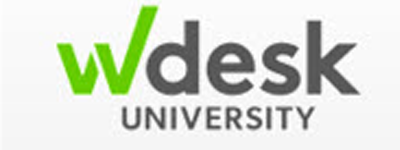
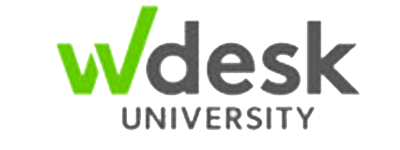
Cleaned up HTML and CSS. Modified image background.

diff --git a/index.html b/index.html
@@ -15,41 +15,41 @@
           <div class="col-6"><img class="responsive title-logo" src="images/WdeskUniversity.png" alt="Wdesk University logo" width="250px"></div>
           <div class="col-6 text-right"><p>Log Out | My Profile | Shopping Cart</p></div>
         </div>
-        <div class="row">
+        <div class="row"><!--Begin Top Nav-->
           <div class="col-12 nav_menu">
-              <ul class="dropmenu">
+              <ul>
                 <li><a href="#">Home</a></li>
                 <li><a href="#">Wdesk Basics</a></li>
                 <li><a class="active" href="#">Getting Started</a></li>
                 <li><a href="#">XBRL</a></li>
               </ul>
           </div>
-        </div>
+        </div><!--End Top Nav-->
         <div class="row"><!--Banner image-->
           <div class="col-12">
             <img class="banner" src="images/banner.jpg" alt="Banner image">
           </div>
         </div><!--End Banner image-->
         <div class="row">
-          <div class="col-4 vert_nav">
-            <ul class="vert_nav">
+          <div class="col-2 vert_nav"><!--Begin vertical nav menu-->
+            <ul>
               <li><a href="#">Home</a></li>
               <li><a href="#">Courses</a></li>
               <li><a href="#">Profile</a></li>
             </ul>
-          </div>
-          <div class="col-8 content">
+          </div><!--End vertical nav menu-->
+          <div class="col-10 content"><!--Begin main content-->
           <h2>SOX Getting Started</h2>
-          <p>Bacon ipsum dolor amet corned beef chicken pastrami, biltong landjaeger brisket capicola rump. Drumstick sausage turkey t-bone pastrami pancetta beef. Ribeye flank meatloaf filet mignon ham tail chuck jowl shoulder short ribs jerky leberkas swine. Tenderloin swine cupim kielbasa alcatra drumstick corned beef. Meatloaf ball tip ribeye, ground round pork tri-tip beef capicola bacon shank sausage tenderloin short ribs short loin. Porchetta alcatra filet mignon beef ribs sirloin frankfurter ground round chicken short loin prosciutto fatback t-bone. Chicken jerky strip steak ham leberkas meatball.</p>
+          <p>Bacon ipsum dolor amet corned beef chicken pastrami, biltong landjaeger brisket capicola rump. Drumstick sausage turkey t-bone pastrami pancetta beef.
+          Ribeye flank meatloaf filet mignon ham tail chuck jowl shoulder short ribs jerky leberkas swine. Tenderloin swine cupim kielbasa alcatra drumstick corned beef.
+          Meatloaf ball tip ribeye, ground round pork tri-tip beef capicola bacon shank sausage tenderloin short ribs short loin.
+          Porchetta alcatra filet mignon beef ribs sirloin frankfurter ground round chicken short loin prosciutto fatback t-bone. Chicken jerky strip steak ham leberkas meatball.</p>
           <hr>
           <h3>Video: Wdesk Home</h3>
-          	<p>Click <a href="assets/story_html5.html" target="_blank">here</a> to play video.</p>
-          </video>
-          </div>
+          	<p>Click<a href="assets/story_html5.html" target="_blank">here</a> to play video.</p>
+          </div><!--End main content-->
         </div>
       </div>
     </div>
-
-    <script src="js/bootstrap.min.js"><script>
   </body>
 </html>

diff --git a/css/main.css b/css/main.css
@@ -13,7 +13,7 @@ h1,h2{
 	background-color: #ffffff;
 	color: #444444;
 	padding: 15px;
-	max-width: 75%;
+	max-width: 100%;
 	-webkit-box-shadow: 5px 5px 13px 0px rgba(68,68,68,1);
 	-moz-box-shadow: 5px 5px 13px 0px rgba(68,68,68,1);
 	box-shadow: 5px 5px 13px 0px rgba(68,68,68,1);
@@ -90,9 +90,9 @@ h1,h2{
 .text-right{
 	text-align: right;
 }
-/* Dropdown Menus */
+/* Top Navigation Menu */
 
-	.nav_menu { background-color: #444444; margin: 0px; max-height: 100%; max-width: 100%; padding: 0px; position: relative; z-index: 1000; }
+	.nav_menu { background-color: #444444; margin: 0px; height: 90%; max-width: 100%; padding: 0px; position: relative; z-index: 1000; }
 	.nav_menu li {
 		background-color: #444444;
 		display: inline-block;
@@ -102,7 +102,7 @@ h1,h2{
 	.nav_menu li a{
 		color: #ffffff;
 		line-height: 12px;
-		padding: 0px;
+		padding: 10px;
 		text-decoration: none;
 	}
 	.nav_menu ul{
@@ -117,19 +117,19 @@ h1,h2{
     color: white;
 	}
 
-	/* Vertical Nav Menu*/
+/* Vertical Nav Menu*/
 	.vert_nav ul {
-    list-style-type: none;
-    margin: 0;
-    padding: 0;
-    width: 200px;
-    background-color: #f1f1f1;
-    border: 1px solid #555;
+    	list-style-type: none;
+    	margin: 0;
+    	padding: 0;
+   		width: 100%;
+    	background-color: #444444;
+    	border: 1px solid #555;
 	}
 
 	.vert_nav li a {
 	    display: block;
-	    color: #000;
+	    color: #ffffff;
 	    padding: 8px 16px;
 	    text-decoration: none;
 	}
@@ -144,12 +144,12 @@ h1,h2{
 	}
 
 	.vert_nav li a.active {
-	    background-color: #4CAF50;
+	    background-color: #707070;
 	    color: white;
 	}
 
 	.vert_nav li a:hover:not(.active) {
-	    background-color: #555;
+	    background-color: #595959;
 	    color: white;
 	}
 
